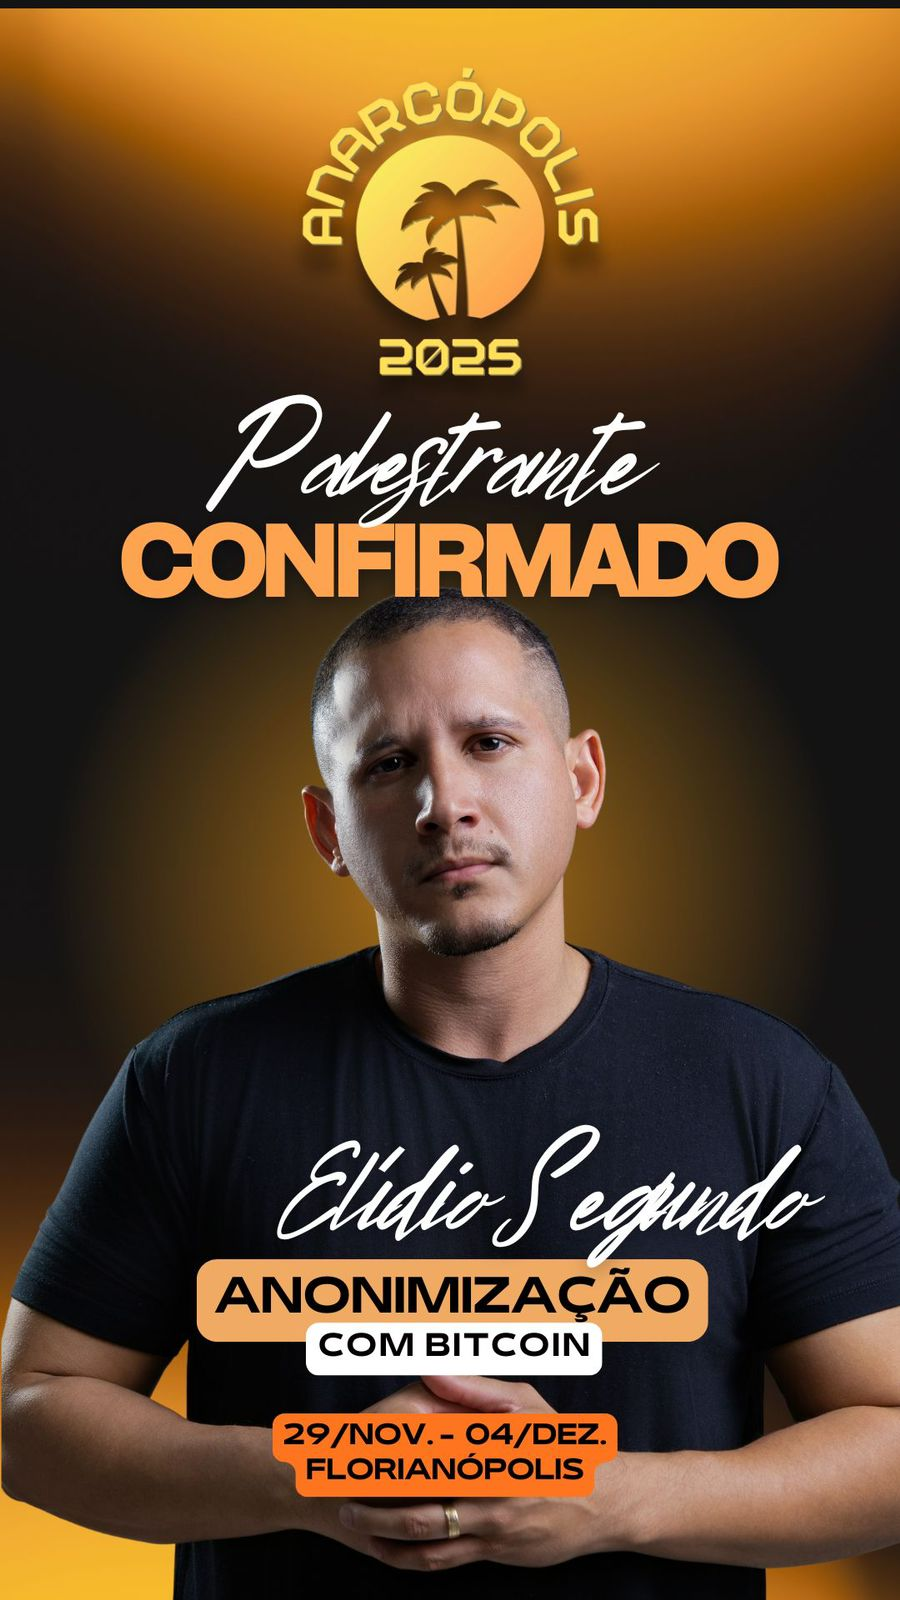
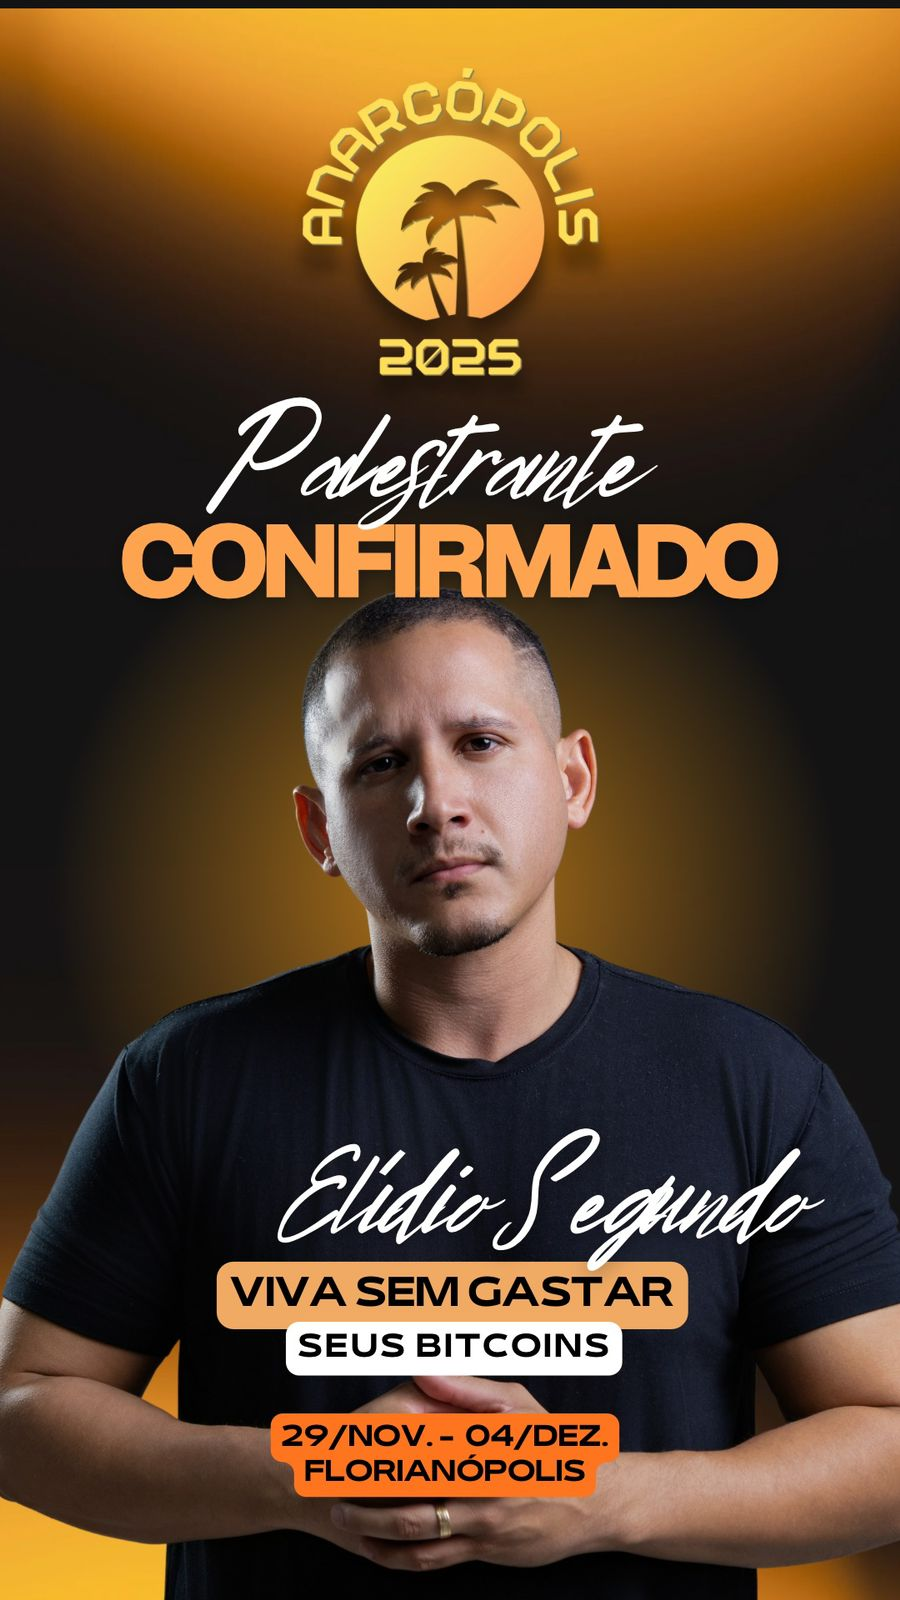
novas imagens

diff --git a/site_fraguismo/templates/anarcopolis.html b/site_fraguismo/templates/anarcopolis.html
@@ -264,6 +264,9 @@
                     <div class="carousel-item">
                         <img class="d-block w-100" src="{% static 'images/palestrante17.jpg' %}" alt="Décimo oitavo Slide">
                     </div>
+                    <div class="carousel-item">
+                        <img class="d-block w-100" src="{% static 'images/palestrante18.jpg' %}" alt="Décimo nono Slide">
+                    </div>
                 </div>
 
         <button class="carousel-control-prev" type="button" data-bs-target="#carouselExampleControls2" data-bs-slide="prev">
